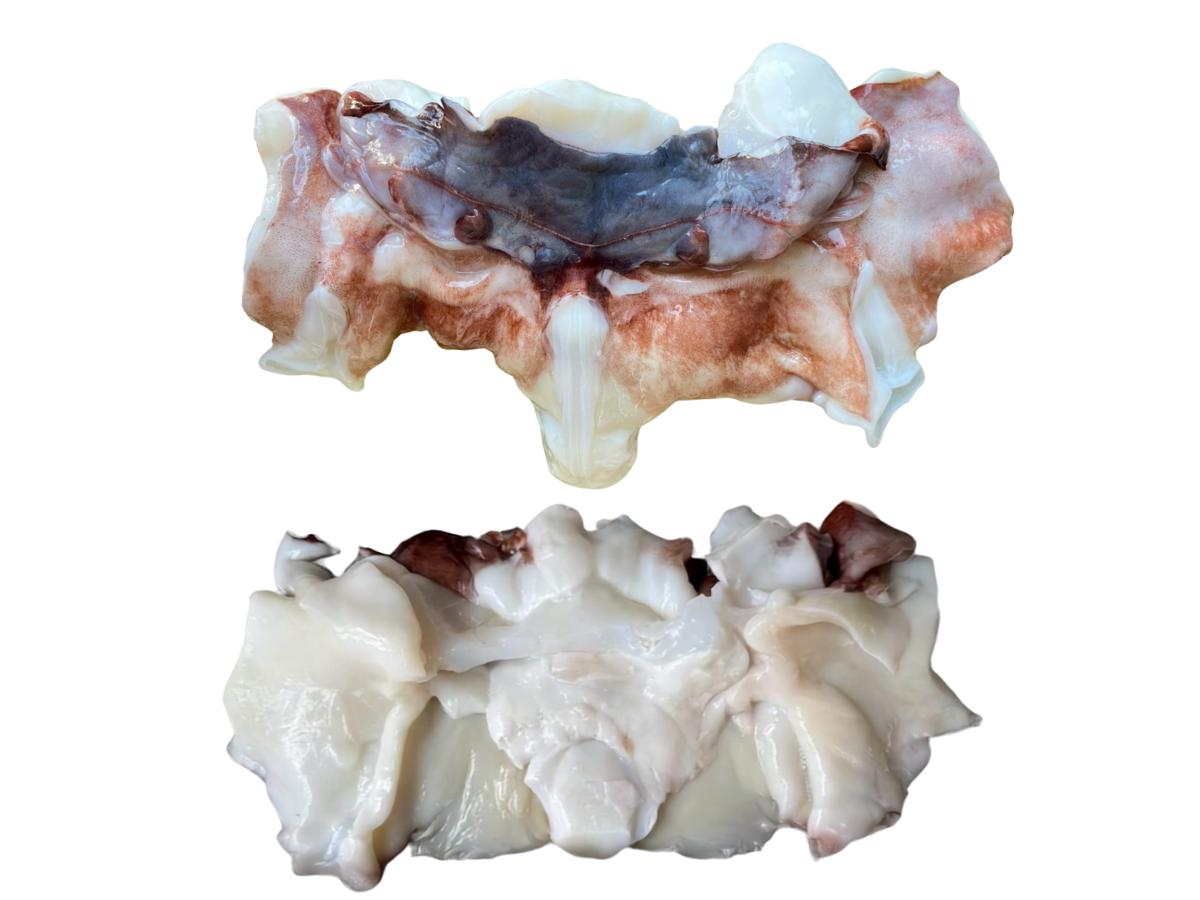
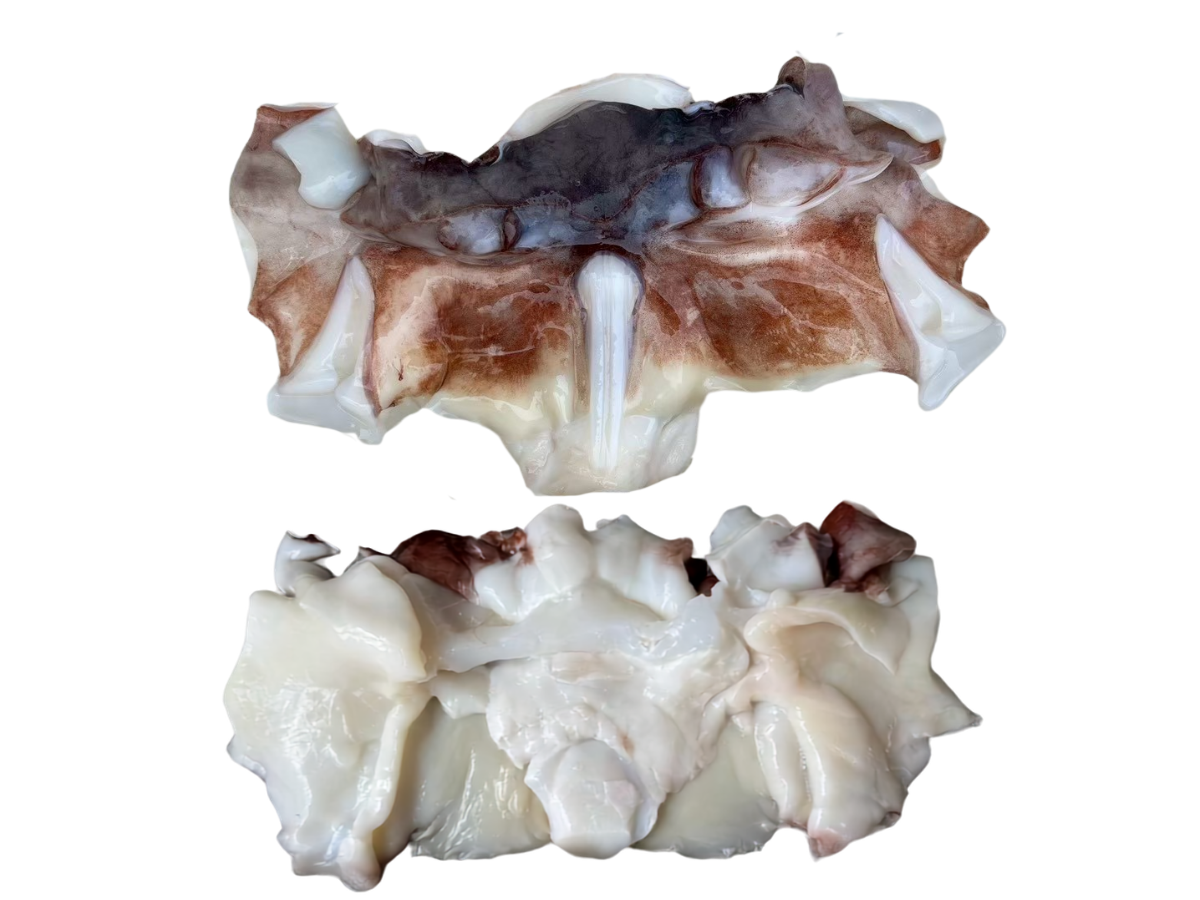
fix(catalog): replace squid-neck cover artwork with คอหมึก2.png

Changed region(s): [[0.185, 0.0311, 0.8633, 0.56]]

diff --git a/src/scripts/update-squid-neck-media.ts b/src/scripts/update-squid-neck-media.ts
@@ -1,0 +1,90 @@
+import fs from 'fs';
+import path from 'path';
+
+// Load .env.local variables into process.env BEFORE importing payload config
+try {
+  const envPath = path.resolve(process.cwd(), '.env.local');
+  if (fs.existsSync(envPath)) {
+    const envConfig = fs.readFileSync(envPath, 'utf8');
+    envConfig.split('\n').forEach((line) => {
+      const match = line.match(/^\s*([\w.-]+)\s*=\s*(.*)?\s*$/);
+      if (match) {
+        const key = match[1];
+        let value = match[2] || '';
+        if (value.length > 0 && value.startsWith('"') && value.endsWith('"')) {
+          value = value.substring(1, value.length - 1);
+        }
+        process.env[key] = value.trim();
+      }
+    });
+  }
+} catch (e) {
+  console.warn('Could not load .env.local', e);
+}
+
+import { getPayload } from 'payload';
+
+async function updateSquidNeck() {
+  console.log('Initializing Payload for squid-neck media update...');
+  const { default: config } = await import('../payload.config');
+  const payload = await getPayload({ config });
+
+  const newImagePath = 'C:\\Users\\AVS_KTB\\Desktop\\Sprint\\products\\Squid\\คอหมึก2.png';
+  if (!fs.existsSync(newImagePath)) {
+    console.error('File คอหมึก2.png not found at Desktop path!');
+    return;
+  }
+
+  const fileBuffer = fs.readFileSync(newImagePath);
+  const filenames = ['squid-neck.png', 'squid-neck-er.png'];
+
+  for (const filename of filenames) {
+    const existingMedia = await payload.find({
+      collection: 'media',
+      where: {
+        filename: {
+          equals: filename,
+        },
+      },
+    });
+
+    if (existingMedia.docs.length > 0) {
+      const mediaDoc = existingMedia.docs[0];
+      console.log(`Updating existing media: ${filename} (ID: ${mediaDoc.id})...`);
+      await payload.update({
+        collection: 'media',
+        id: mediaDoc.id,
+        file: {
+          data: fileBuffer,
+          name: filename,
+          size: fileBuffer.length,
+          mimetype: 'image/png',
+        },
+      });
+      console.log(`Successfully updated media: ${filename}`);
+    } else {
+      console.log(`Media ${filename} not found in DB, creating...`);
+      await payload.create({
+        collection: 'media',
+        data: {
+          alt: 'Squid neck frozen seafood product',
+        },
+        file: {
+          data: fileBuffer,
+          name: filename,
+          size: fileBuffer.length,
+          mimetype: 'image/png',
+        },
+      });
+      console.log(`Successfully created media: ${filename}`);
+    }
+  }
+
+  console.log('Squid neck media update completed!');
+  process.exit(0);
+}
+
+updateSquidNeck().catch((err) => {
+  console.error('Error updating squid neck media:', err);
+  process.exit(1);
+});
